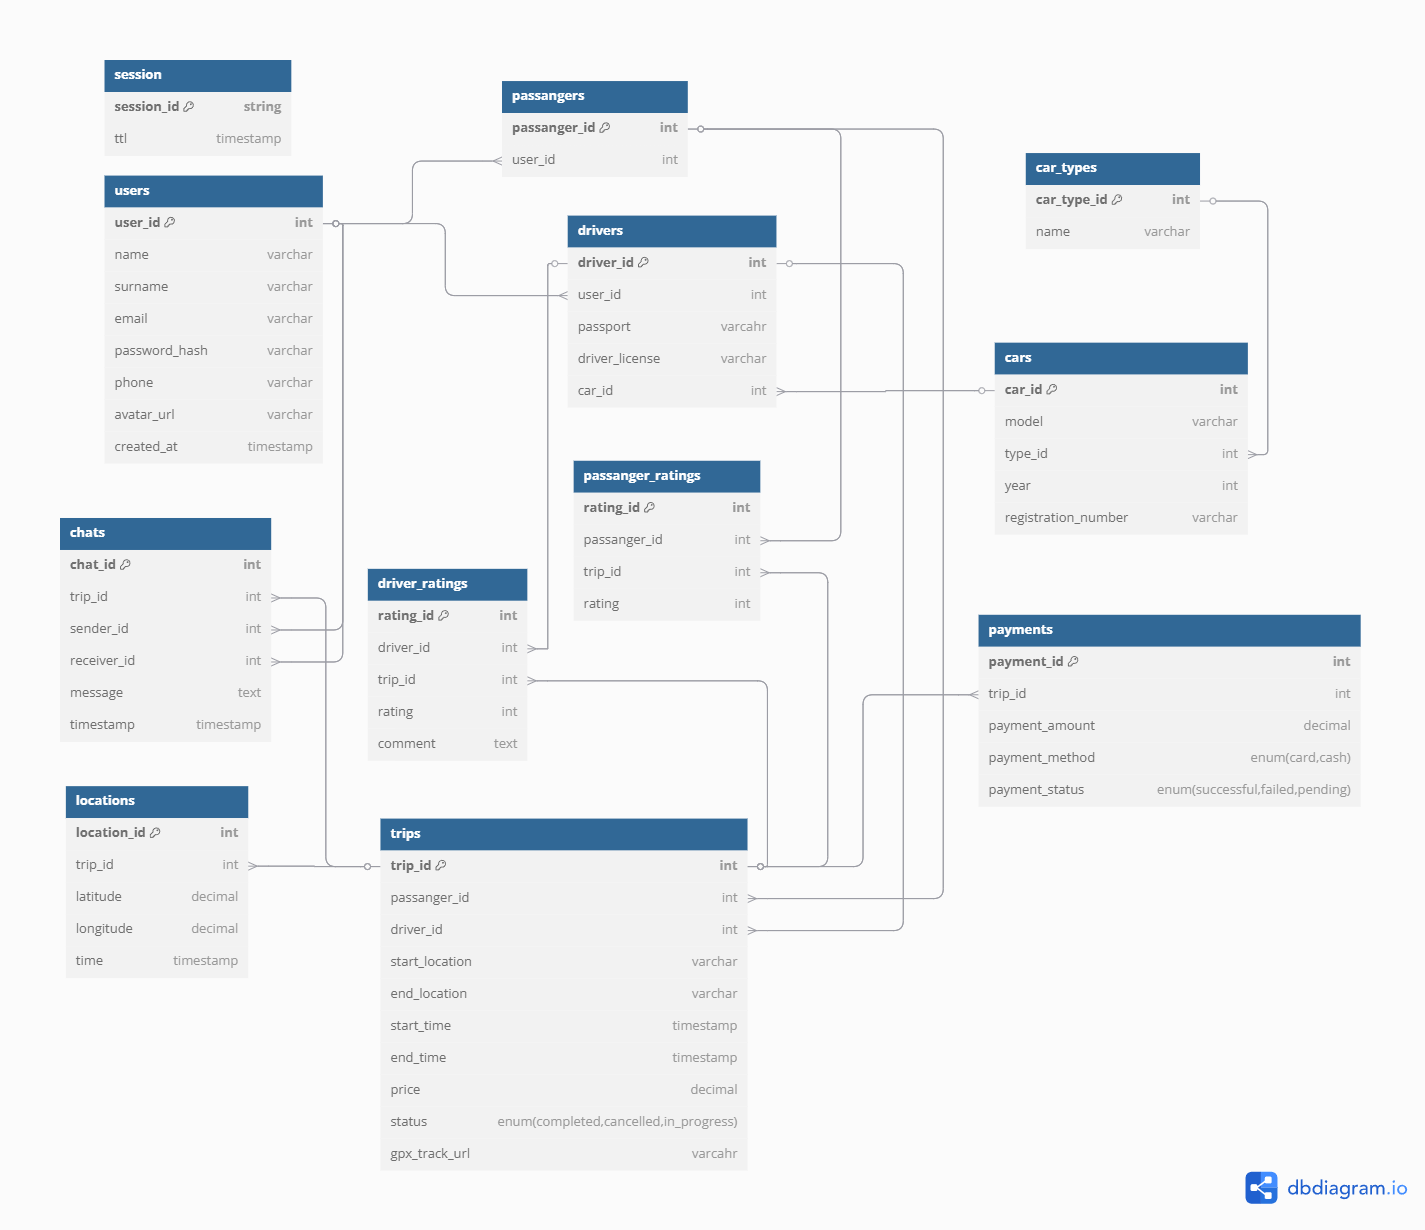
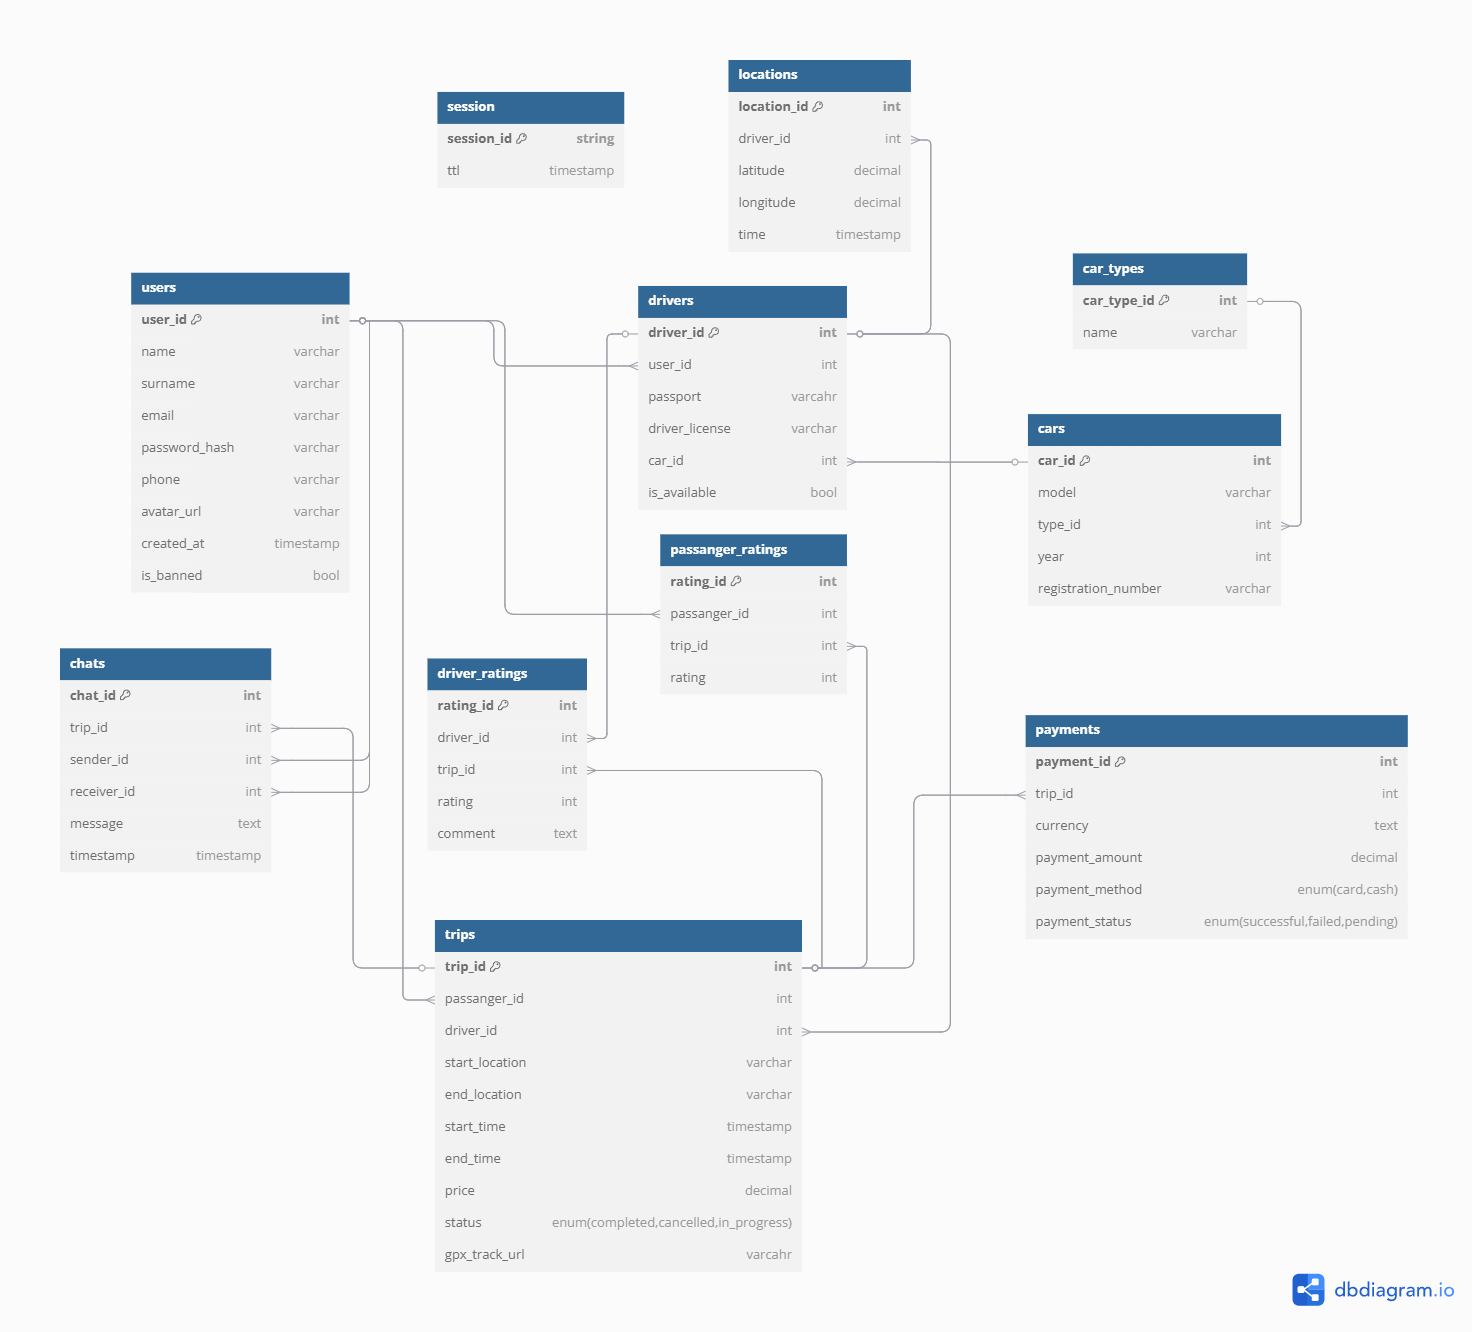
feature: 6

diff --git a/README.md b/README.md
@@ -351,7 +351,7 @@ kubernetes удобен, поскольку:
 | **trips**             | Информация о поездках (пассажир, водитель, местоположение, статус, стоимость).           | `trip_id`: Уникальный идентификатор поездки (PK)<br> `passenger_id`: Внешний ключ, ссылающийся на таблицу **passengers**<br> `driver_id`: Внешний ключ, ссылающийся на таблицу **drivers**<br> `start_location`: Начальная точка поездки<br> `end_location`: Конечная точка поездки<br> `start_time`: Время начала поездки<br> `end_time`: Время окончания поездки<br> `price`: Стоимость поездки<br> `status`: Статус поездки (например, "completed", "cancelled", "in_progress")<br> `gpx_track_url`: Ссылка на файл трека маршрута |
 | **chats**             | Сообщения в чате между пассажиром и водителем | `chat_id`: Уникальный идентификатор чата (PK)<br> `trip_id`: Внешний ключ, ссылающийся на таблицу **trips**<br> `sender_id`: Внешний ключ, ссылающийся на отправителя сообщения в таблице **users**<br> `receiver_id`: Внешний ключ, ссылающийся на получателя сообщения в таблице **users**<br> `message`: Текст сообщения<br> `timestamp`: Временная метка для сообщения |
 | **driver_ratings**    | Оценки водителей от пассажиров            | `rating_id`: Уникальный идентификатор оценки (PK)<br> `driver_id`: Внешний ключ, ссылающийся на таблицу **drivers**<br> `trip_id`: Внешний ключ, ссылающийся на таблицу **trips**<br> `rating`: Оценка водителя (например, от 1 до 5)<br> `comment`: Комментарий к оценке |
-| **passenger_ratings** | Оценки пассажиров от водителей           | `rating_id`: Уникальный идентификатор оценки (PK)<br> `passenger_id`: Внешний ключ, ссылающийся на таблицу **passengers**<br> `trip_id`: Внешний ключ, ссылающийся на таблицу **trips**<br> `rating`: Оценка пассажира (например, от 1 до 5) |
+| **passenger_ratings** | Оценки пассажиров от водителей           | `rating_id`: Уникальный идентификатор оценки (PK)<br> `passenger_id`: Внешний ключ, ссылающийся на таблицу **users**<br> `trip_id`: Внешний ключ, ссылающийся на таблицу **trips**<br> `rating`: Оценка пассажира (например, от 1 до 5) |
 | **locations**         | Координаты  точек старта и окончания   | `location_id`: Уникальный идентификатор местоположения (PK)<br> `trip_id`: Внешний ключ, ссылающийся на таблицу **trips**<br> `latitude`: Широта местоположения<br> `longitude`: Долгота местоположения |
 | **payments**          | Платежи за поездки                                        | `payment_id`: Уникальный идентификатор платежа (PK)<br> `trip_id`: Внешний ключ, ссылающийся на таблицу **trips**<br> `payment_amount`: Сумма платежа<br> `payment_method`: Метод оплаты (например, "card", "cash")<br> `payment_status`: Статус платежа (например, "successful", "failed", "pending") |
 | **session** | Содержит сессии пользователя | `session_id`: id-сессии  `ttl`: время жизни |
@@ -377,8 +377,7 @@ kubernetes удобен, поскольку:
 
 | Таблица               | Чтение, IOPS | Запись, IOPS | Примечание |
 |-----------------------| -------- | ---- | ----------- |
-| **users**             | 205 | 45 | Запрос на получение осуществляется каждый раз, как происходит вход пользователя в приложение. При записи учтено изменение данных из предположения, что каждый 10000-ый пользователь меняет данные |
-| **passengers**        | 122 | 0.01 | Предположение, что пользовательские данные меняет кажый 10000-ый |
+| **users**             | 327 | 45 | Запрос на получение осуществляется каждый раз, как происходит вход пользователя в приложение. При записи учтено изменение данных из предположения, что каждый 10000-ый пользователь меняет данные |
 | **drivers**           | 78 | 0.005 | При чтении учитывается случаи заходов в историю поездок и при поездке |
 | **car_types**         | 78 | 0 | Классы автомобилей предполагаются постоянными и редко изменяющимися. |
 | **cars**              | 78 | 0.005 | Количество новых машин оценим в количество регистраций водителей. Количество чтений учитывает кроме поездок, еще и историю поездок |
@@ -402,6 +401,76 @@ kubernetes удобен, поскольку:
 поскольку сервис должен сохранять свою функциональность в своих регионах, за которые он ответсвеннен,
 и не было такого, что система оплаты ложилась после отказа одного из ЦОДов.
 Доступность не критична, поскольку оплату может быть отложена - главное сохранить данные.
+
+## 6. Физическая схема БД
+
+![img](img/db_physical.png)
+
+### Индексы
+
+| Таблица | Индекс |
+| ------- | ------ |
+users | user_id - первичный ключ
+| drivers | driver_id - первичный ключ <br> user_id - индекс для быстрого поиска водителя по id пользователя |
+| car_types | car_type_id - первичный ключ |
+| cars | car_id - PK |
+| trips | trip_id - PK <br> driver_id - быстрый поиск по водителям <br> passenger_id - быстрый поиск по пассажирам (история поездок) |
+| chat | chat_id - PK <br> trip_id - для поиска по поездке |
+| driver_ratings | rating_id - PK <br> driver_id - выстрый поиск по водителю |
+| passenger_ratings | rating_id - PK <br> passenger_id - выстрый поиск по пассажиру |
+| payments | payment_id - PK <br> trip_id - для проверки статуса оплаты по конкретной поездке|
+
+### Денормализация
+
+Чтобы избежать большого количество JOINов следует применять денормализацию. В данном случае запросы на чтение происходят чаще, поэтому надо оптимизировать некоторые таблицы на чтение. 
+
+| Таблица | денормализация |
+| - | - |
+| trips | Добавим поля: <br> driver_name <br> car_model <br> car_type |
+| drivers | rating_mark - закешированный рейтинг, который обнавляется асинхронно после добавления новых отзывов |
+| users | rating_mark - закешированный рейтинг, который обнавляется асинхронно после добавления новых отзывов | 
+
+### Выбор СУБД
+
+В качестве основной СУБД используется YDB, поскольку она поддерживает SQL-подобный язык, транзакции (по ACID) и имеет хорошую горизонтальную масштабируемость.
+
+Данные, к которым нужен доступ в онлайн-режиме следует хранить в in-memory решениях, например Redis.
+
+| Таблица | БД | Примечание | 
+| - | - | - |
+| users | YDB |  Критичные данные: учетная запись. транзакции
+| drivers | YDB | Данные о водителе (паспорт) и автомобиле (СТС) транзакции
+| car_types | YDB |
+| cars | YDB | транзакции |
+| trips | YDB | транзакции |
+| chats | YDB | транзакции |
+| driver_ratings | YDB |
+| passanger_ratings | YDB |
+| payments | YDB | Критически важные операции. Транзакции, строгая консистентность  |
+| locations | redis | Очень большое количество запросов на чтение/запись. Следует использовать встроенный формат хранения геоданных. Быстрый доступ к данным |
+| sessions | redis | Быстрый доступ к данным. Не страшно потерять. | 
+
+### Шардирование и резервирование
+
+Документация YDB для достижения сохранности данных рекомендует использовать топологию **mirror-3-dc**.
+Зоны отказа выберем из "треугольника" Москва-Краснодар-Новосибирск, чтобы обеспечить latency между ДЦ ~15 мс.
+Резервирование и консистентность обеспечивается синхронной репликацией на основе RAFT-протокола.
+
+| Таблица | Шардирование | Резервирование |
+| - | - | - |
+| users | hash-шардировние по PK| mirror-3-dc: данные хранятся в 3ёх копиях. Автоматическое переключение на резервный узел (failover). PITR |
+| drivers |  Hash - шардировние по PK | mirror-3-dc: данные хранятся в 3ёх копиях. PITR |
+| car_types | - | backup | 
+| cars | Автошардировние по driver_id | mirror-3-dc. PITR |
+| trips | HASH-шардирование по trip_id. Дополнительно партиционирование по годам | mirror-3-dc. PITR |
+| chats | HASH-шардирование по trip_id, sender_id, reciever_id | mirror-3-dc | mirror-3-dc. PITR |
+| driver_ratings |  | |
+| passanger_rating |  |
+| payments | HASH-шардирование по trip_id
+| locations | изолированный redis в каждом ДЦ | отсутствует синхронизация между ДЦ. Локальный кластер Redis (master + slave) в ЦОДах | 
+| session | изолированный redis в каждом ДЦ | аналогично locations |
+
+
 
 ## Источники
 1. https://dev.go.yandex/blog/yandex-taxi-reliability-2024-05-30
